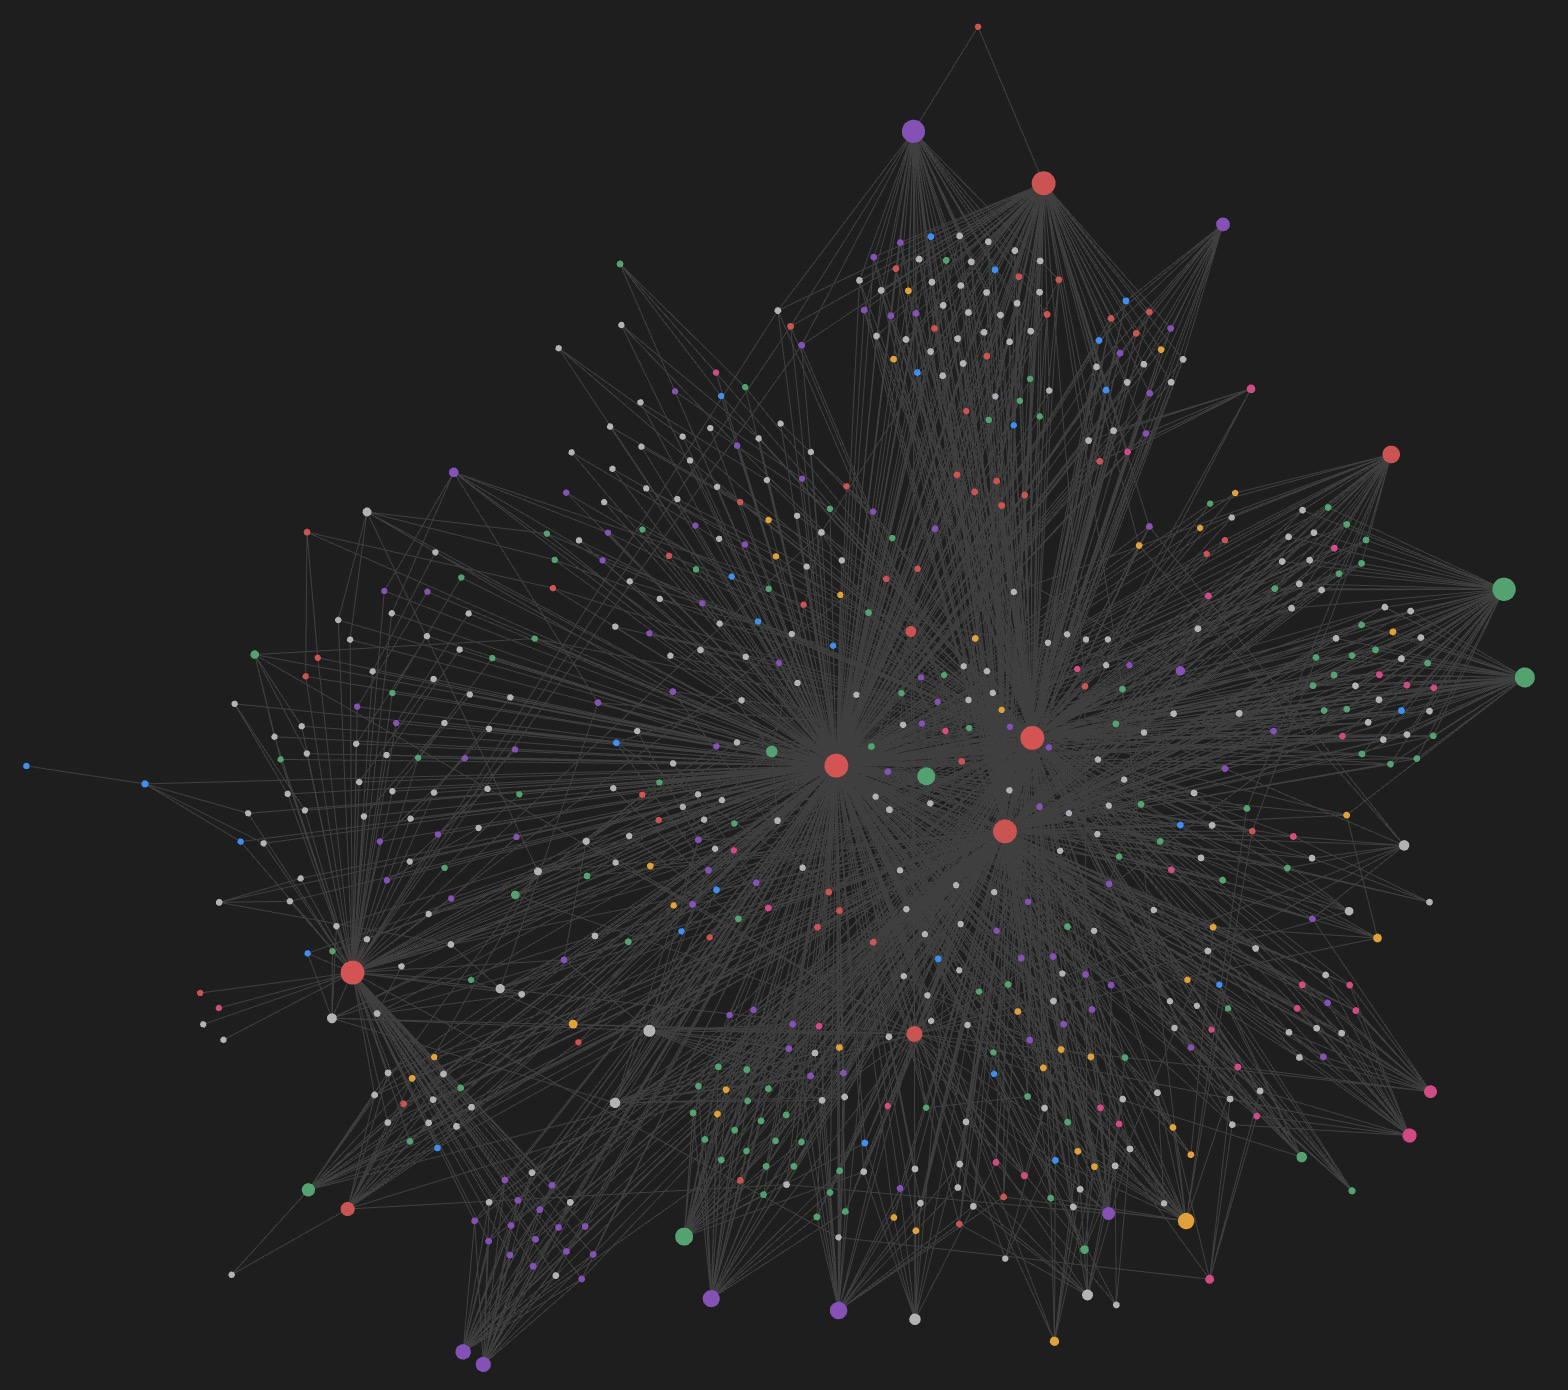
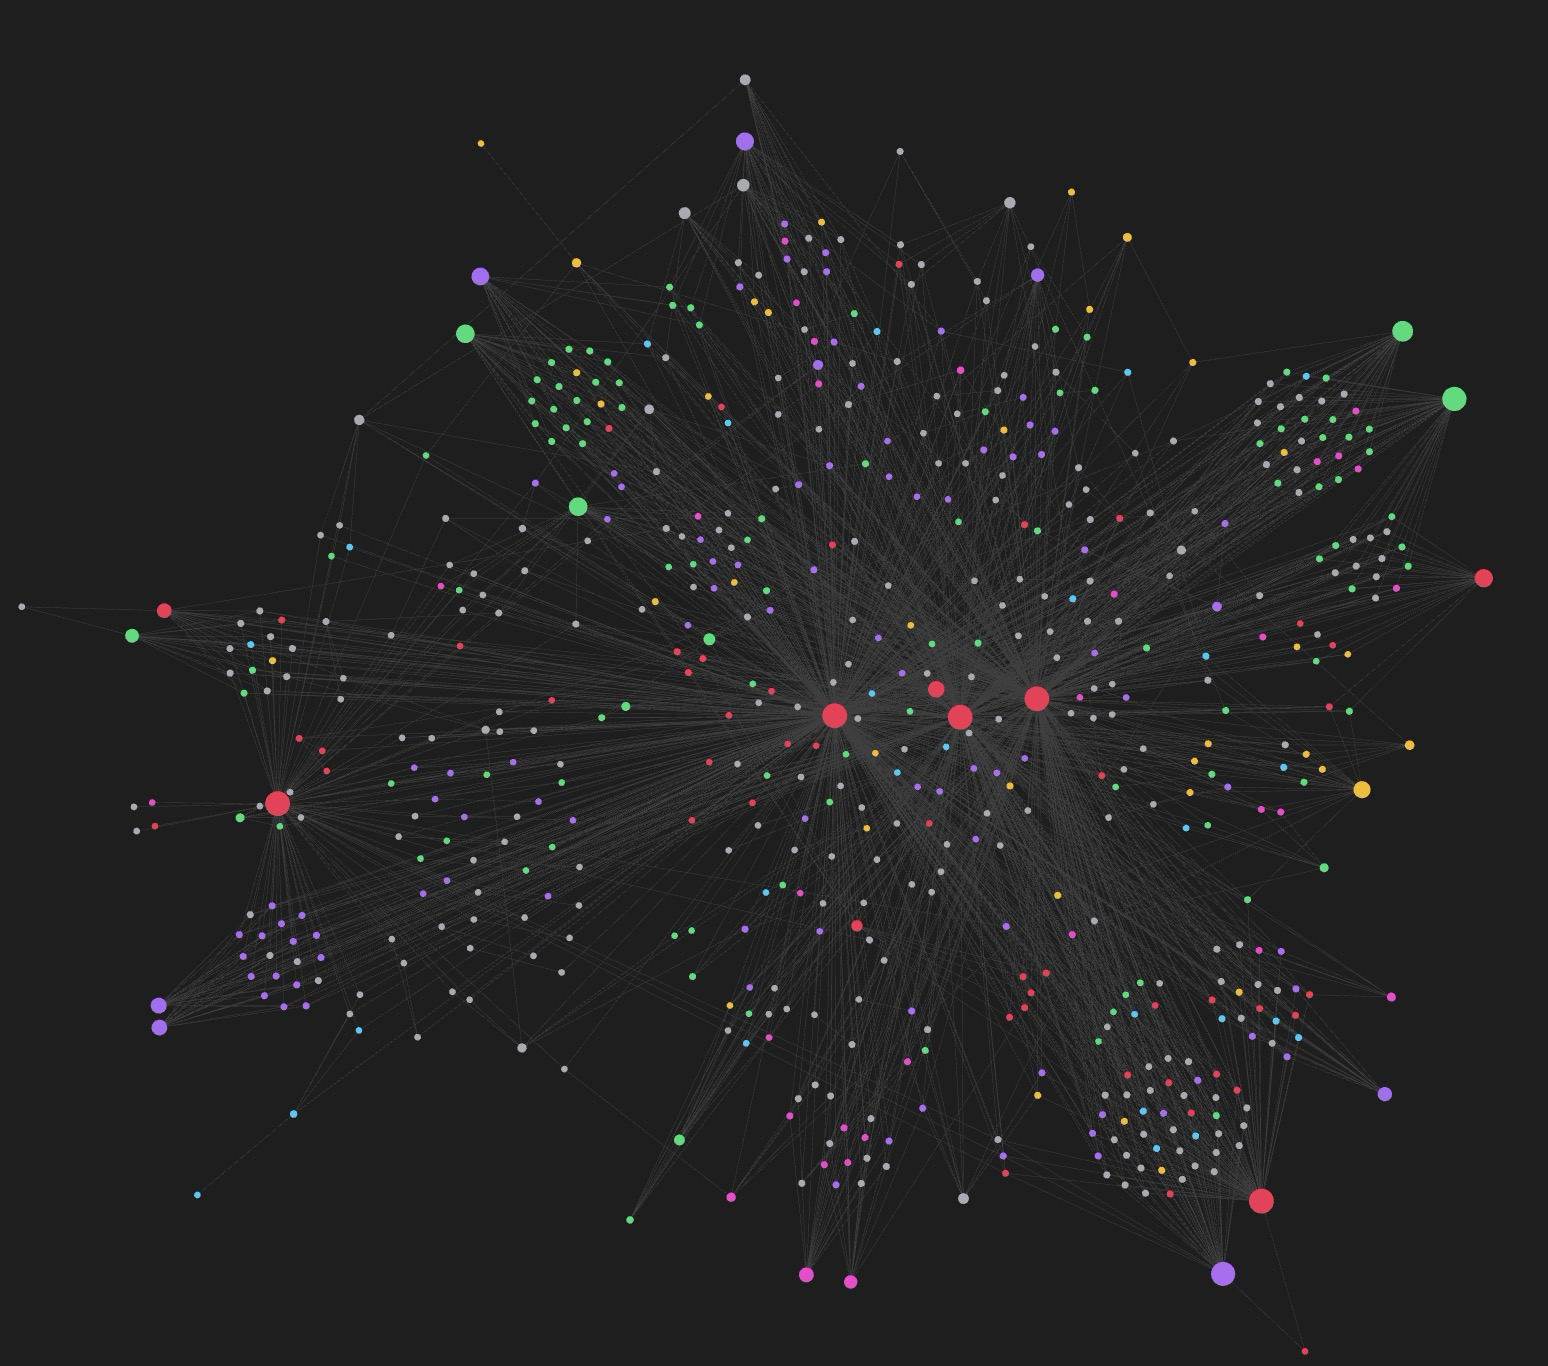
Switch to neon palette across the repo
New high-luminance hero image, matching neon graph.json color groups, and
legend updated (gold, cyan) so the README, the vault, and the social video
all show the same brain.

diff --git a/README.md b/README.md
@@ -79,10 +79,10 @@ The vault opens up as a live graph in Obsidian. Below, I colored the graph by th
 | Color | Decision area |
 |---|---|
 | Red | Getting into YC |
-| Amber | Pricing and business model |
+| Gold | Pricing and business model |
 | Green | Fundraising and investors |
 | Pink | Talking to users |
-| Blue | Growth and distribution |
+| Cyan | Growth and distribution |
 | Purple | Team, hiring, and cofounders |
 | Grey | Author and series pages (the connective spine) |
 